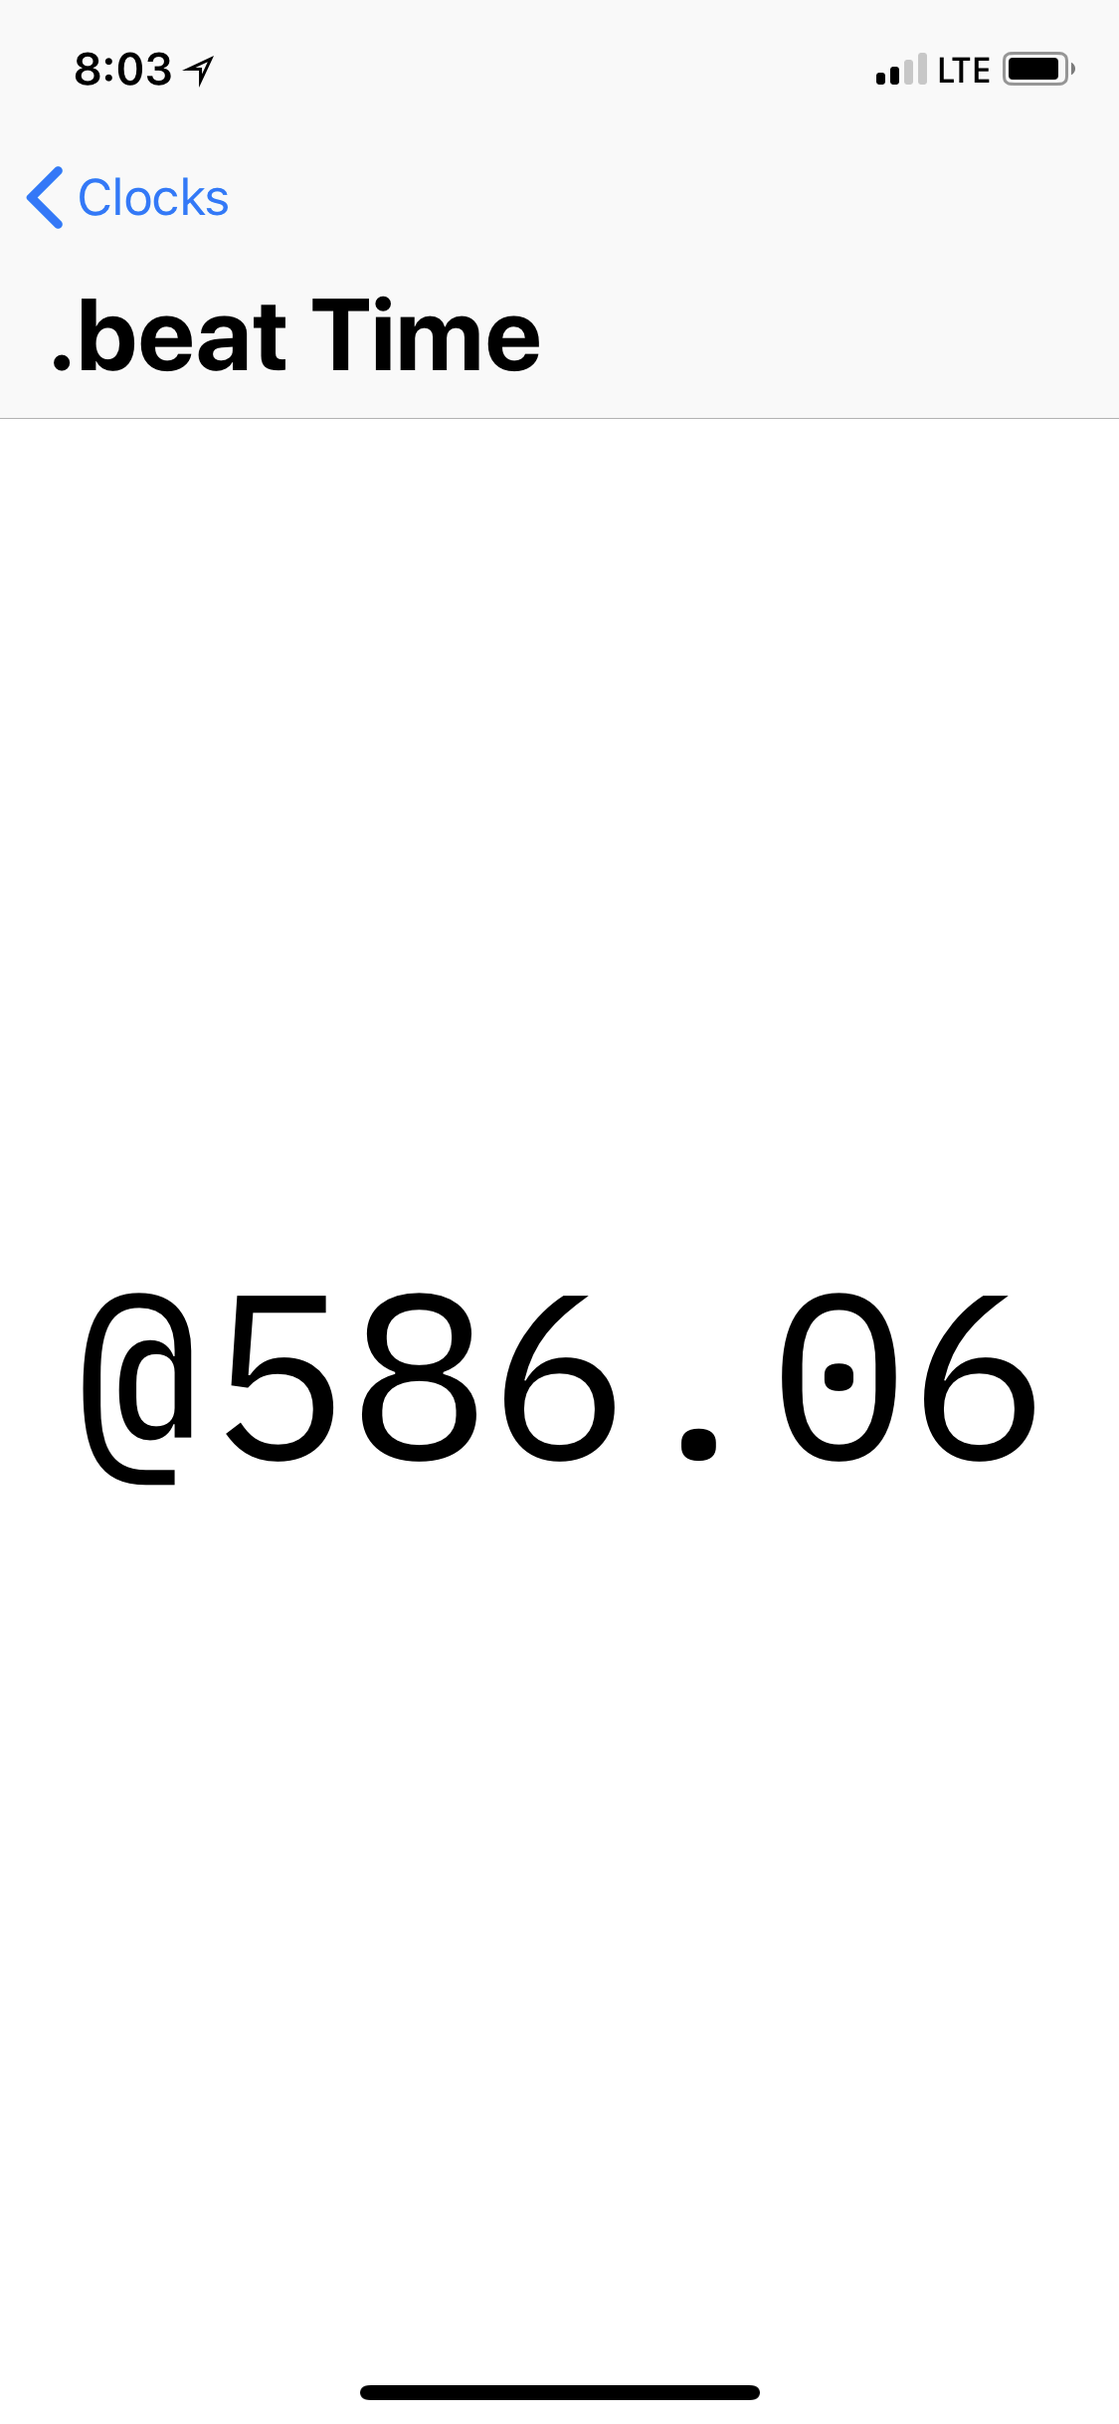
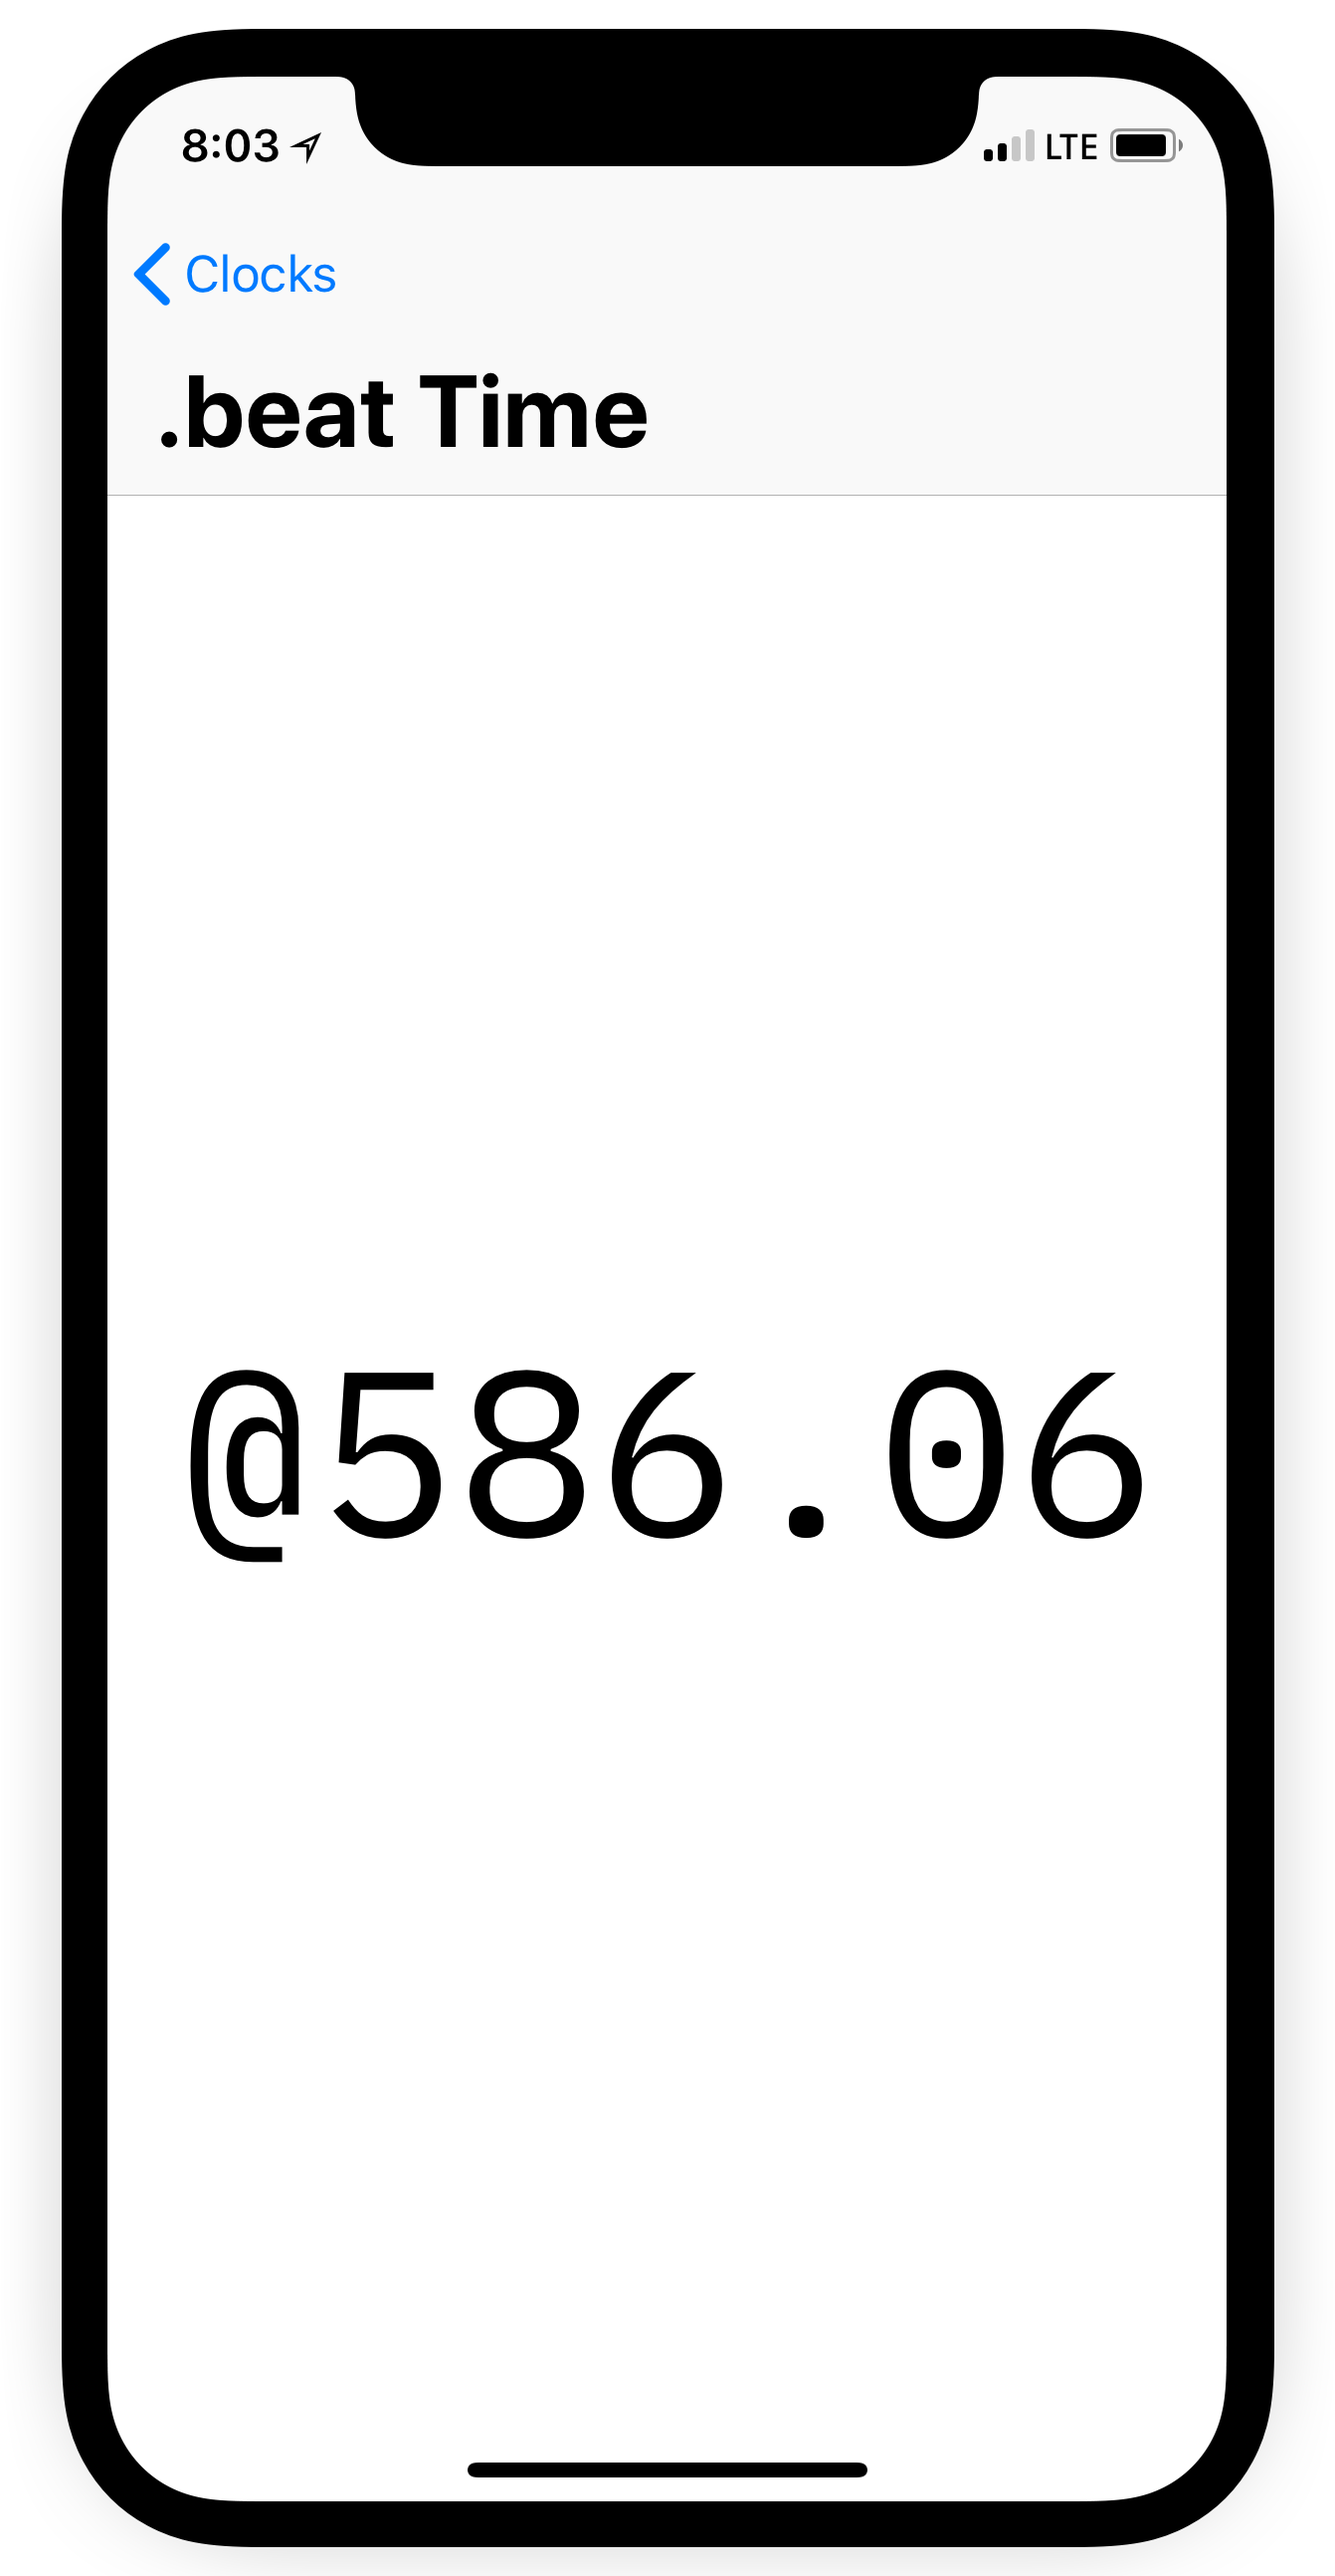
Update screenshots and add one to Readme

Changed region(s): [[0.0311, 0.0, 0.9644, 0.9984], [0.5911, 0.5616, 0.6533, 0.624]]

diff --git a/README.md b/README.md
@@ -1,9 +1,18 @@
 # Tiime
 
+<p align="center">
+	<a href="./meta/screenshots/2018-05-31-tiime-beat-time-view-landscape.jpg">
+		<img src="./meta/screenshots/2018-05-31-tiime-beat-time-view-landscape.jpg" alt="Landscape view as of .beat time as of 2018-06-02" width="75%">
+	</a><br />
+	<caption><em>Landscape view of .beat time as of 2018-06-02</em></caption>
+</p>
+
 Tiime is two things:
 
 1. A clock that tells time in unconventional ways.
 2. An app I'll be developing to learn about iOS development.
+
+<small>[Click here for more screenshots](./meta/screenshots/)</small>
 
 ## About
 
@@ -41,6 +50,6 @@ This will download and build all the necessary dependencies (it may take a while
 
 ## Resources
 
-All of the resources I used when building Tiime: 
+All of the resources I used when building Tiime:
 
 - [<cite>UIKit init Patterns</cite>](https://theswiftdev.com/2017/10/11/uikit-init-patterns/) - Explains some good practices to use when initializing a UIViewController or UIView from code. I found that overriding the init methods isn't quite as easy as I expected, mainly because UIKit elements can be initialized from code, or from Interface Builder, and there are built-in initializer methods you have to use/override in order to also implement a custom one.
